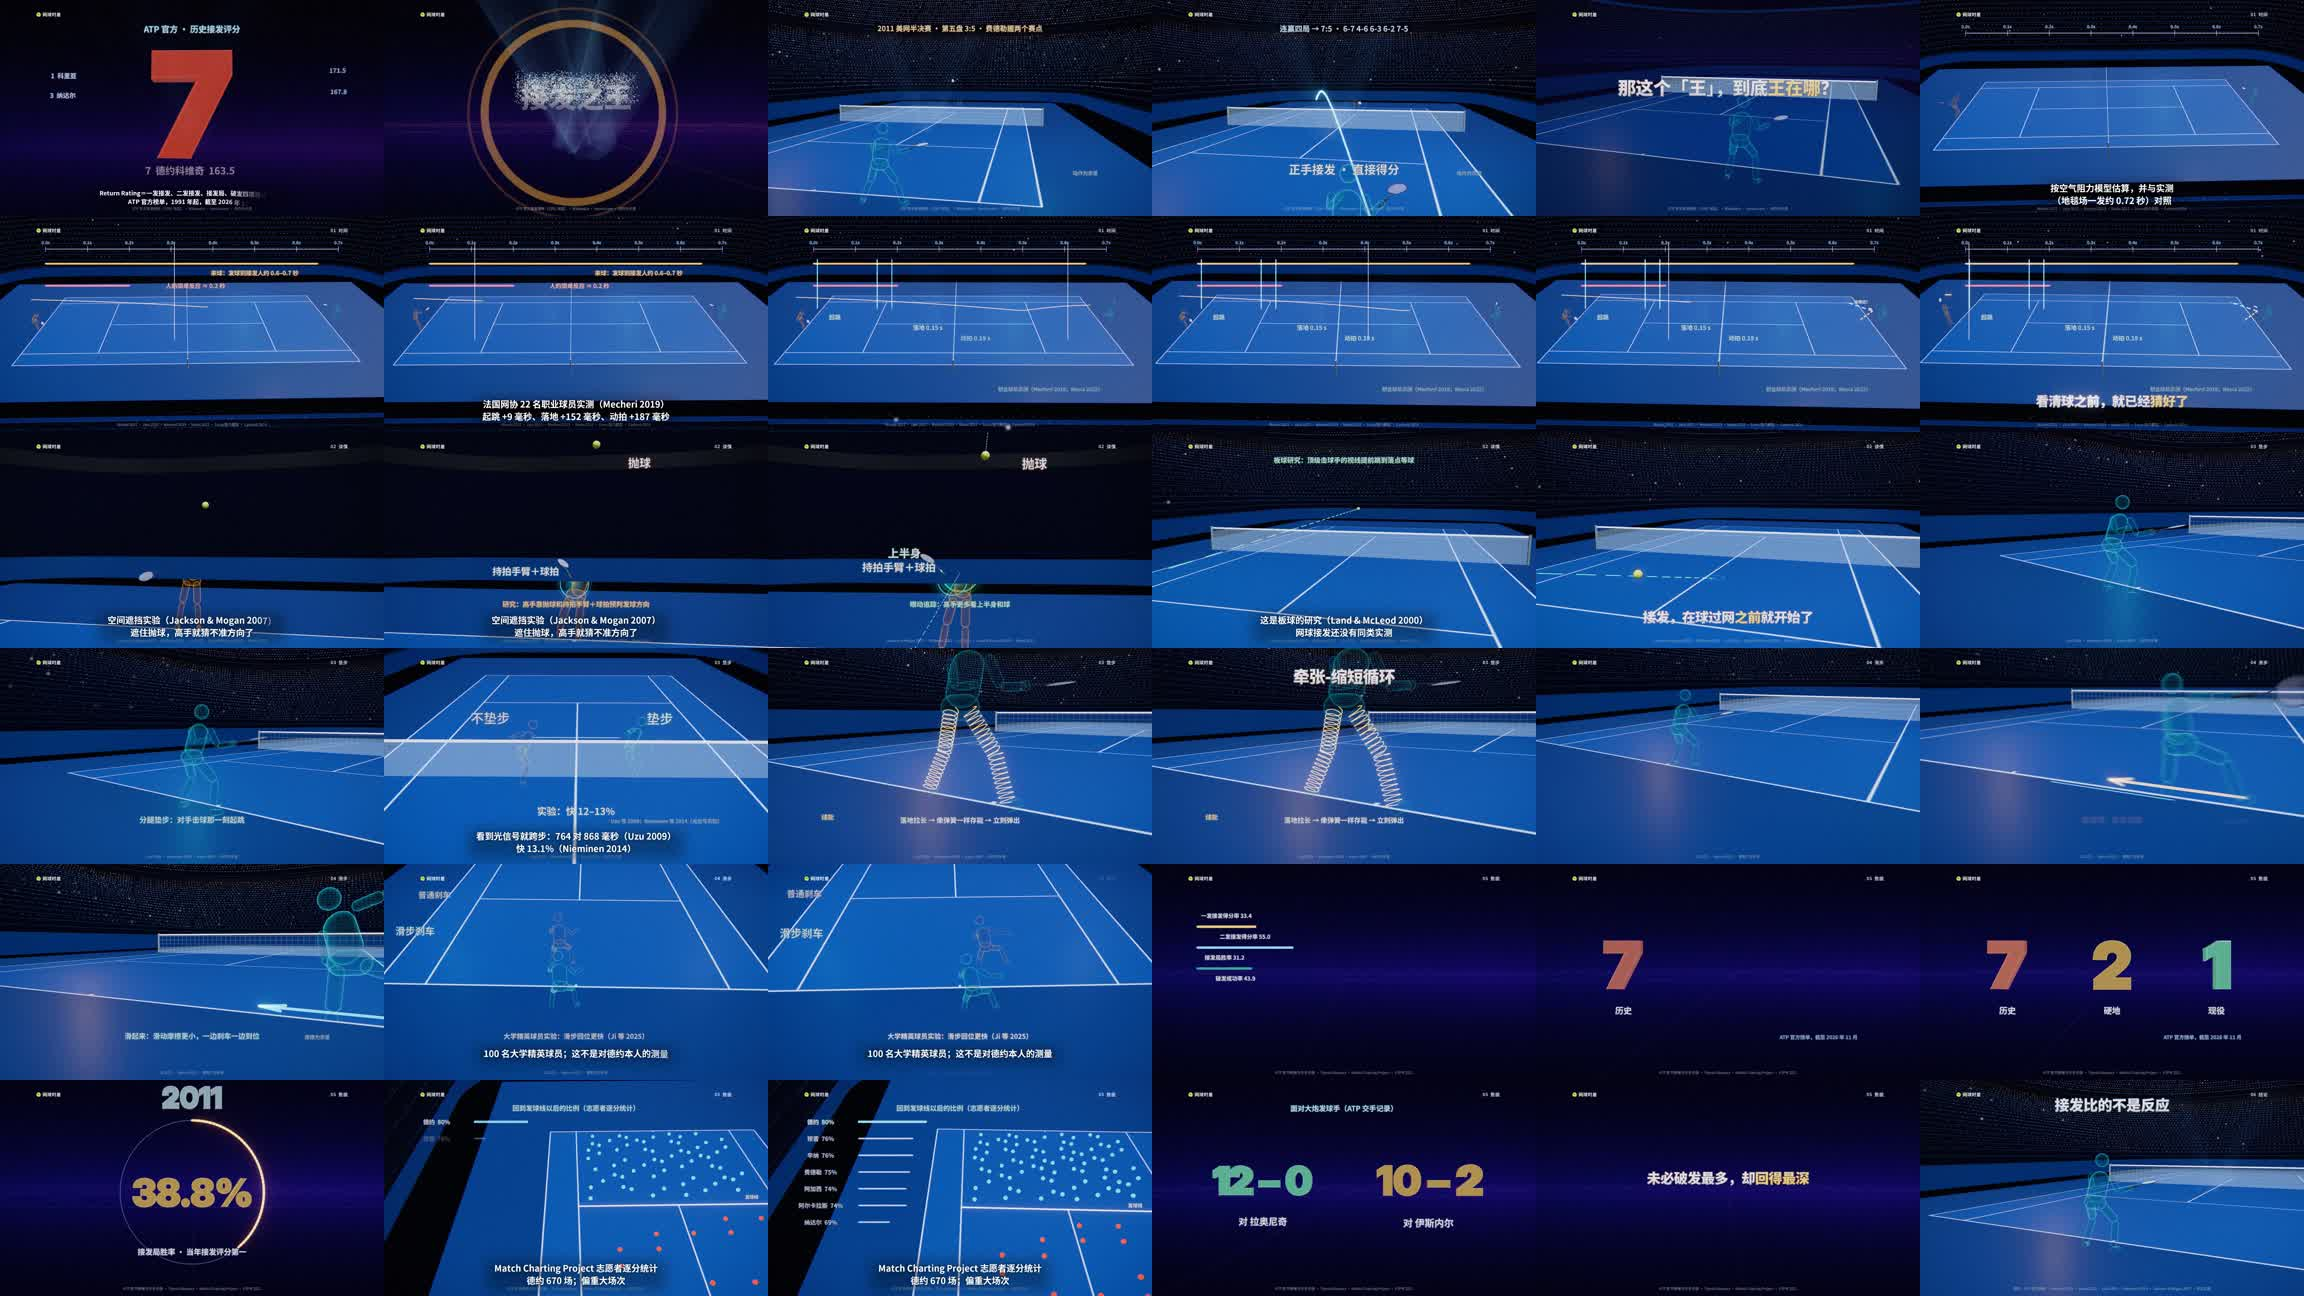
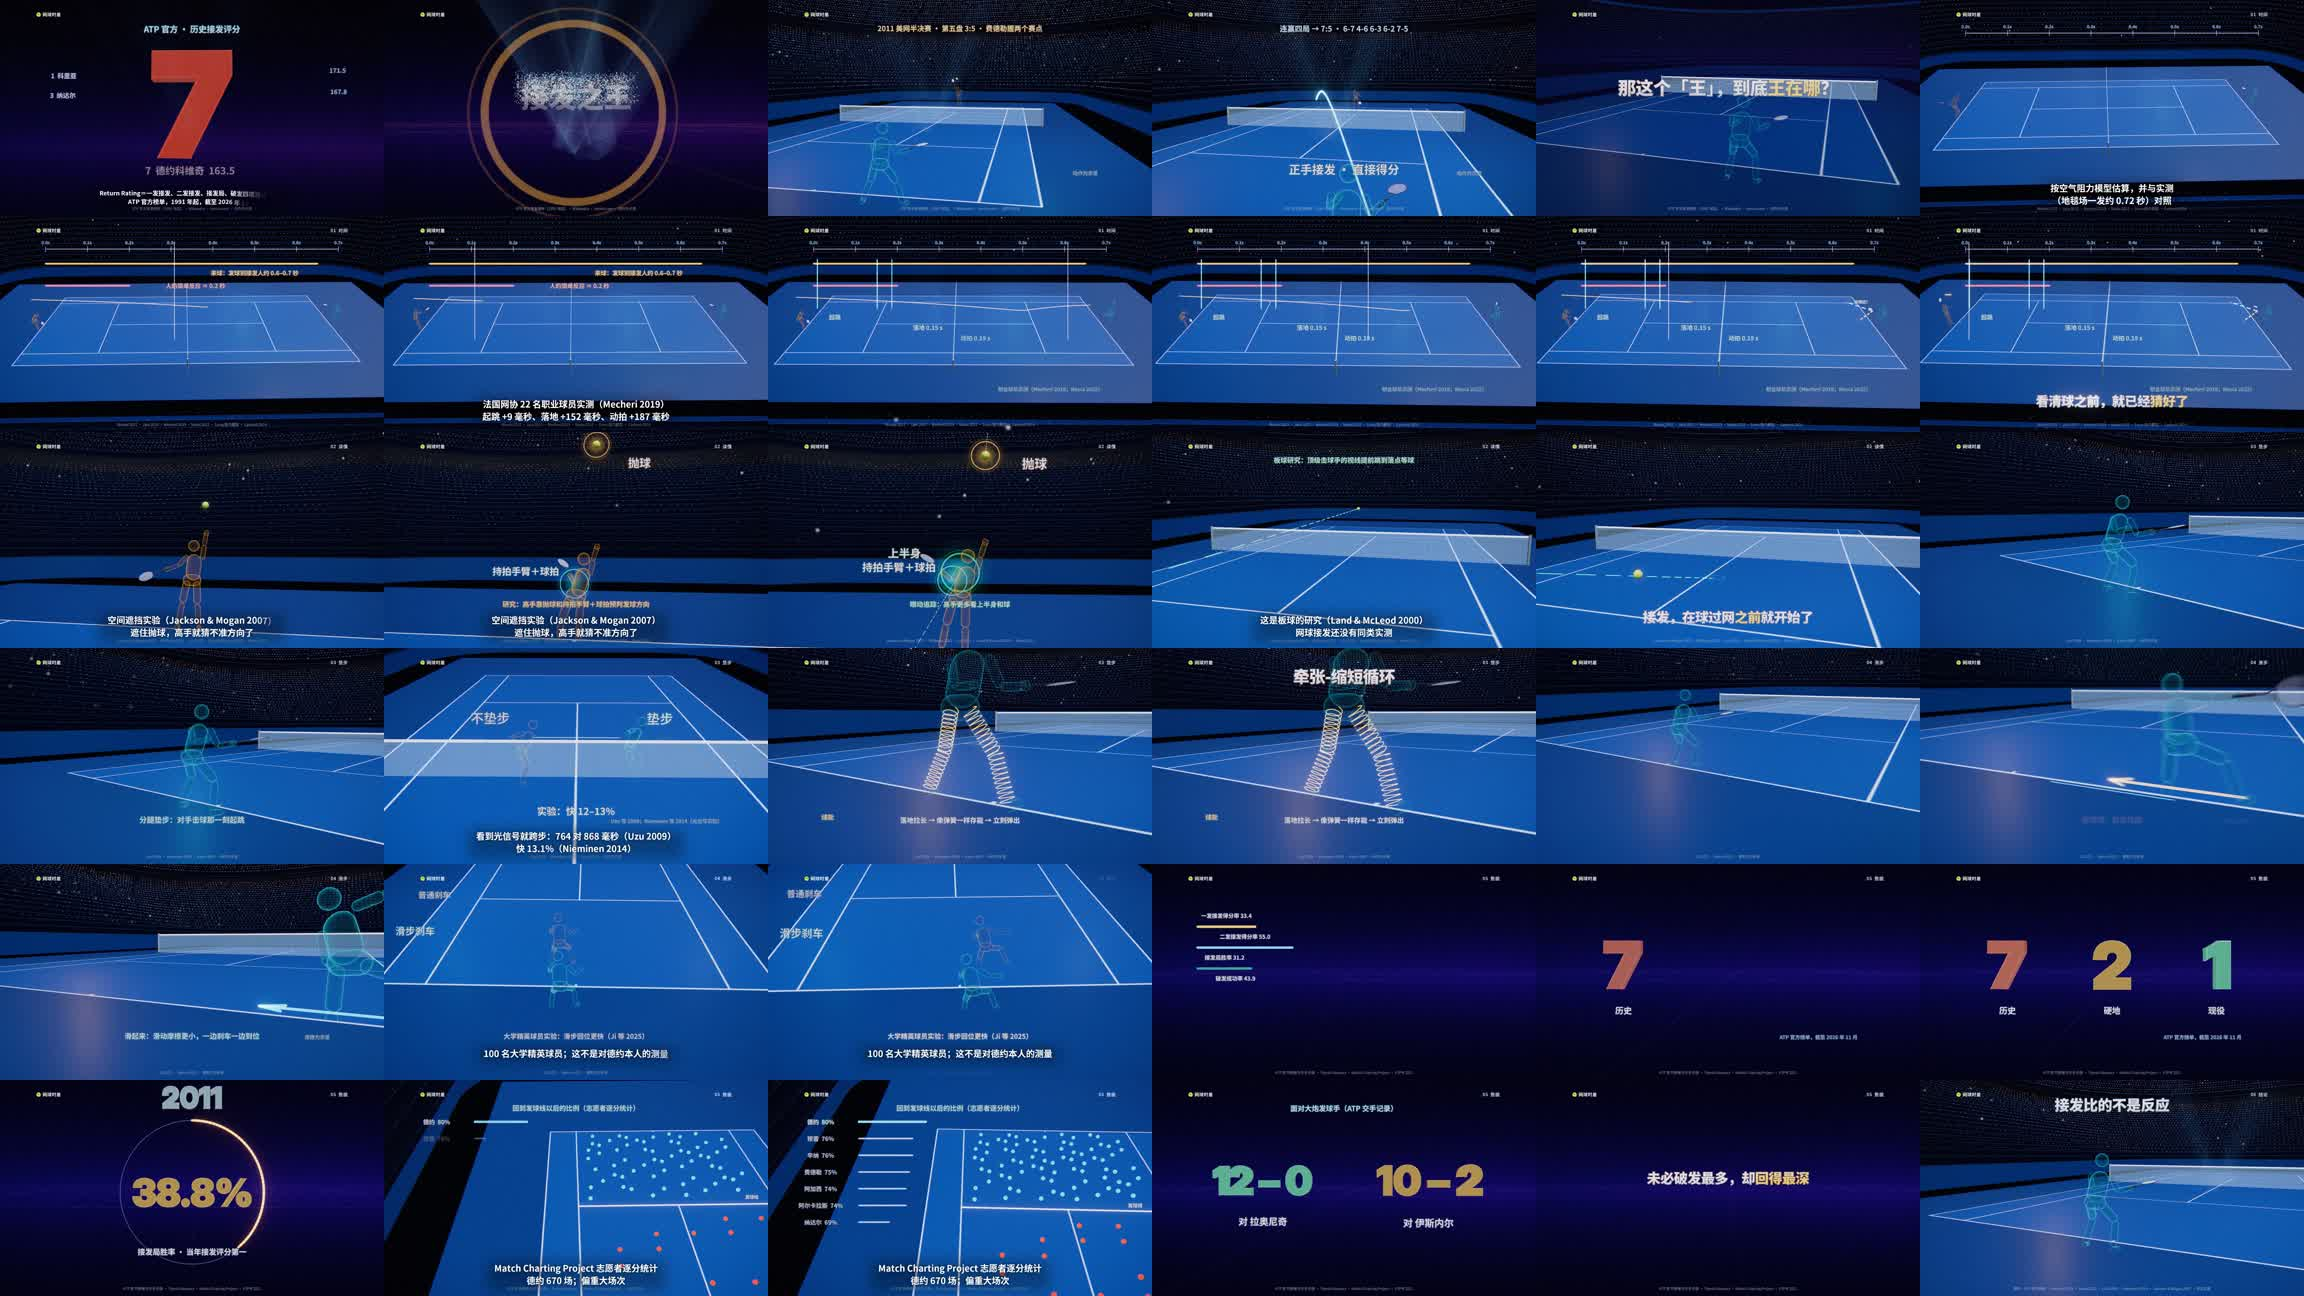
vibetennis EP10（中文版）重推：看台不再挡住全息人 (#1474)
* vibetennis EP10：看台实体走不透明队列（先写深度），全息人不再被背后的看台盖住；淡出时才切半透明

Claude-Session: https://claude.ai/code/session_011V3sK7U5kdqDHDLLhUsm3X

* vibetennis EP10（中文版）重推：修好看台挡住发球人上半身后的成片凭证、复制页；删 pushed.json 以重推

Claude-Session: https://claude.ai/code/session_011V3sK7U5kdqDHDLLhUsm3X

---------

diff --git a/tools/vibetennis/episodes/vibetennis-djokovic-return-2026/r3d/scene.js b/tools/vibetennis/episodes/vibetennis-djokovic-return-2026/r3d/scene.js
@@ -344,7 +344,9 @@ const ST=(()=>{
   return G; })();
 // 每帧（shot 跑完之后）：看台跟 courtG 的显隐与淡出；赛点那几秒闪光灯变密
 function standsTick(t,kind,u){ ST.visible=courtG.visible; if(!ST.visible) return; const o=courtG.userData.mat.opacity;
-  for(const [m,b] of ST_MATS) m.opacity=b*o;
+  for(const [m,b] of ST_MATS){ m.opacity=b*o;
+    // 看台的实体（台阶、挡板、墙、地面）平时走不透明队列：先画、写深度，全息人（半透明、不写深度）才不会被背后的看台盖住（所有者 2026-11-07 截图：发球人上半身被挡）。只有跟着球场淡出时才切成半透明
+    if(m.isMeshLambertMaterial||m.isMeshStandardMaterial){ const tr=b*o<0.999; if(m.transparent!==tr){ m.transparent=tr; m.needsUpdate=true; } } }
   let rate=0.0003; if(kind==='hook'){ const a=ev('court',7.7), b=ev('run',16.5); rate=lerp(0.0003,0.006,ss(a,a+1.0,u)*(1-ss(b+1.0,b+2.5,u))); }
   ST_FL.uniforms.uRate.value=rate; ST_FL.uniforms.uT.value=Math.floor(t*20); ST_FL.uniforms.uOp.value=o; ST_CR.uniforms.uOp.value=o; ST_CR.uniforms.uT.value=t; }
 

diff --git a/tools/vibetennis/episodes/vibetennis-djokovic-return-2026/r3d/src/stands.js b/tools/vibetennis/episodes/vibetennis-djokovic-return-2026/r3d/src/stands.js
@@ -75,6 +75,8 @@ const ST=(()=>{
   return G; })();
 // 每帧（shot 跑完之后）：看台跟 courtG 的显隐与淡出；赛点那几秒闪光灯变密
 function standsTick(t,kind,u){ ST.visible=courtG.visible; if(!ST.visible) return; const o=courtG.userData.mat.opacity;
-  for(const [m,b] of ST_MATS) m.opacity=b*o;
+  for(const [m,b] of ST_MATS){ m.opacity=b*o;
+    // 看台的实体（台阶、挡板、墙、地面）平时走不透明队列：先画、写深度，全息人（半透明、不写深度）才不会被背后的看台盖住（所有者 2026-11-07 截图：发球人上半身被挡）。只有跟着球场淡出时才切成半透明
+    if(m.isMeshLambertMaterial||m.isMeshStandardMaterial){ const tr=b*o<0.999; if(m.transparent!==tr){ m.transparent=tr; m.needsUpdate=true; } } }
   let rate=0.0003; if(kind==='hook'){ const a=ev('court',7.7), b=ev('run',16.5); rate=lerp(0.0003,0.006,ss(a,a+1.0,u)*(1-ss(b+1.0,b+2.5,u))); }
   ST_FL.uniforms.uRate.value=rate; ST_FL.uniforms.uT.value=Math.floor(t*20); ST_FL.uniforms.uOp.value=o; ST_CR.uniforms.uOp.value=o; ST_CR.uniforms.uT.value=t; }
